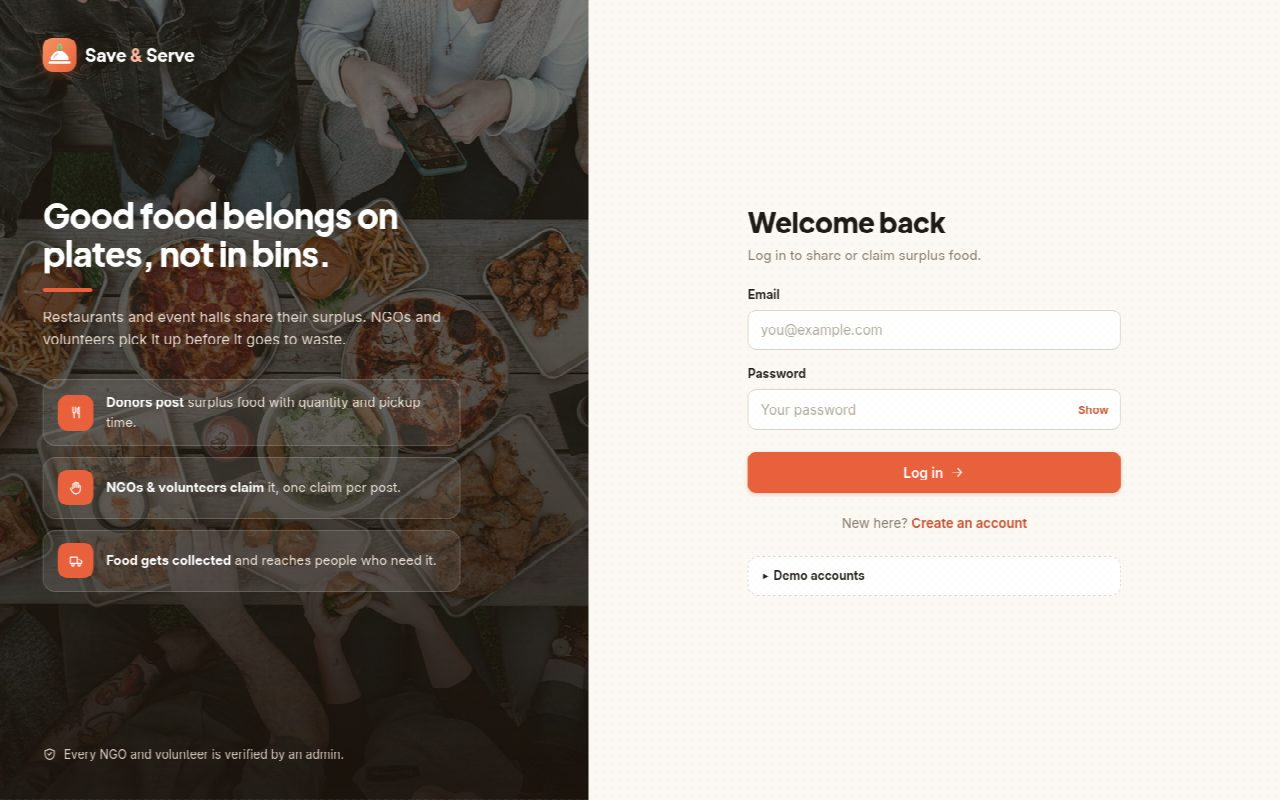
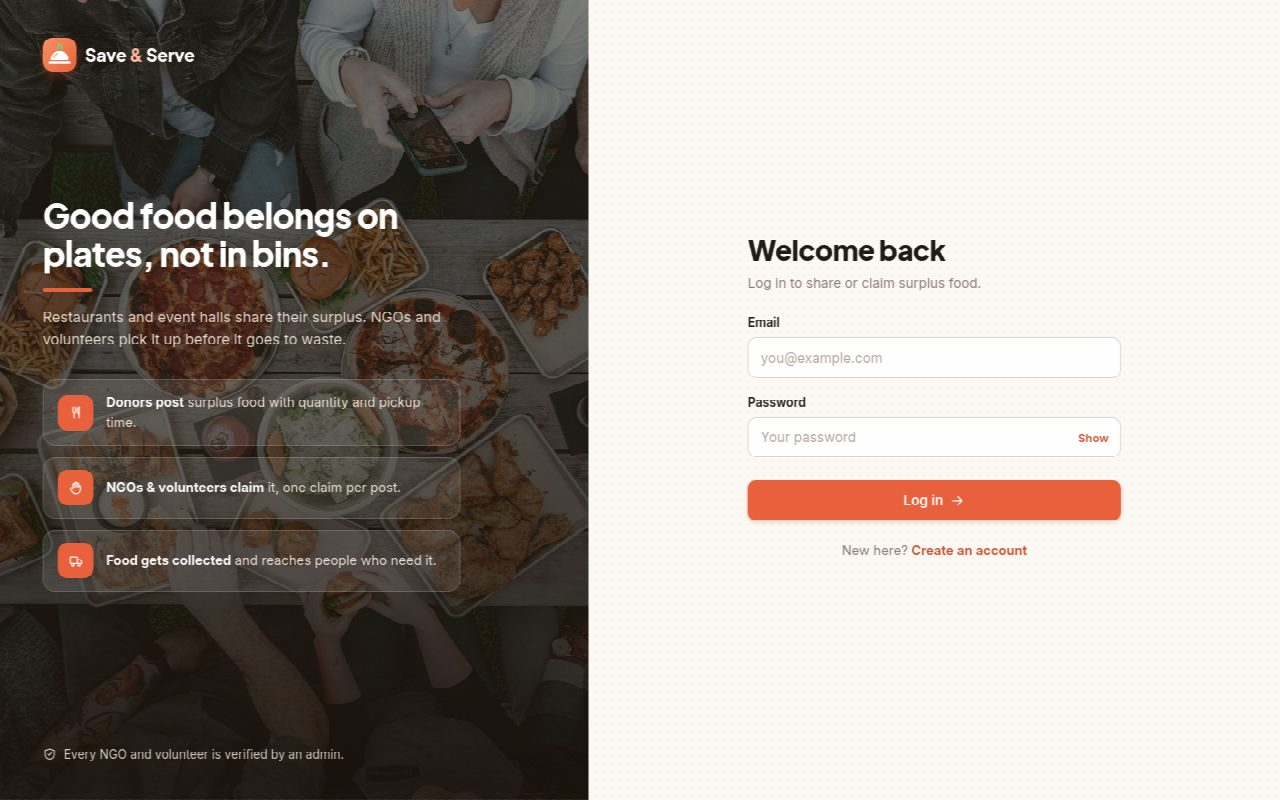
Remove demo account list from the login page
A public site should not display working logins. The demo accounts are still documented in the README for testing and the viva.

Changed region(s): [[0.5625, 0.25, 0.875, 0.75]]

diff --git a/assets/css/style.css b/assets/css/style.css
@@ -180,13 +180,6 @@ input.invalid:focus { box-shadow: 0 0 0 4px rgba(180, 35, 24, .14); }
 .auth-card .btn-block { margin-top: 1.6rem; }
 .switch { text-align: center; margin-top: 1.4rem; color: var(--muted); font-size: .92rem; }
 
-.demo-box {
-    margin-top: 1.6rem; border: 1px dashed var(--border-strong); border-radius: 12px; padding: .7rem 1rem;
-    font-size: .85rem; color: var(--muted); background: var(--surface);
-}
-.demo-box summary { cursor: pointer; font-weight: 600; color: var(--ink); }
-.demo-box p { margin: .6rem 0 .3rem; }
-.demo-box ul { margin: 0; padding-left: 1.1rem; line-height: 1.9; }
 
 /* Role picker cards on signup */
 .role-picker { border: 0; padding: 0; margin: 0; display: grid; grid-template-columns: repeat(3, 1fr); gap: .7rem; }

diff --git a/login.php b/login.php
@@ -62,17 +62,6 @@ require __DIR__ . '/includes/header.php';
                 <button type="submit" class="btn btn-primary btn-block btn-lg">Log in <?= icon('arrow-right') ?></button>
             </form>
             <p class="switch">New here? <a href="signup.php">Create an account</a></p>
-
-            <details class="demo-box">
-                <summary>Demo accounts</summary>
-                <p>Password for all: <code>password123</code></p>
-                <ul>
-                    <li><code>donor@foodshare.test</code></li>
-                    <li><code>ngo@foodshare.test</code></li>
-                    <li><code>volunteer@foodshare.test</code></li>
-                    <li><code>admin@foodshare.test</code></li>
-                </ul>
-            </details>
         </div>
     </main>
 </div>
